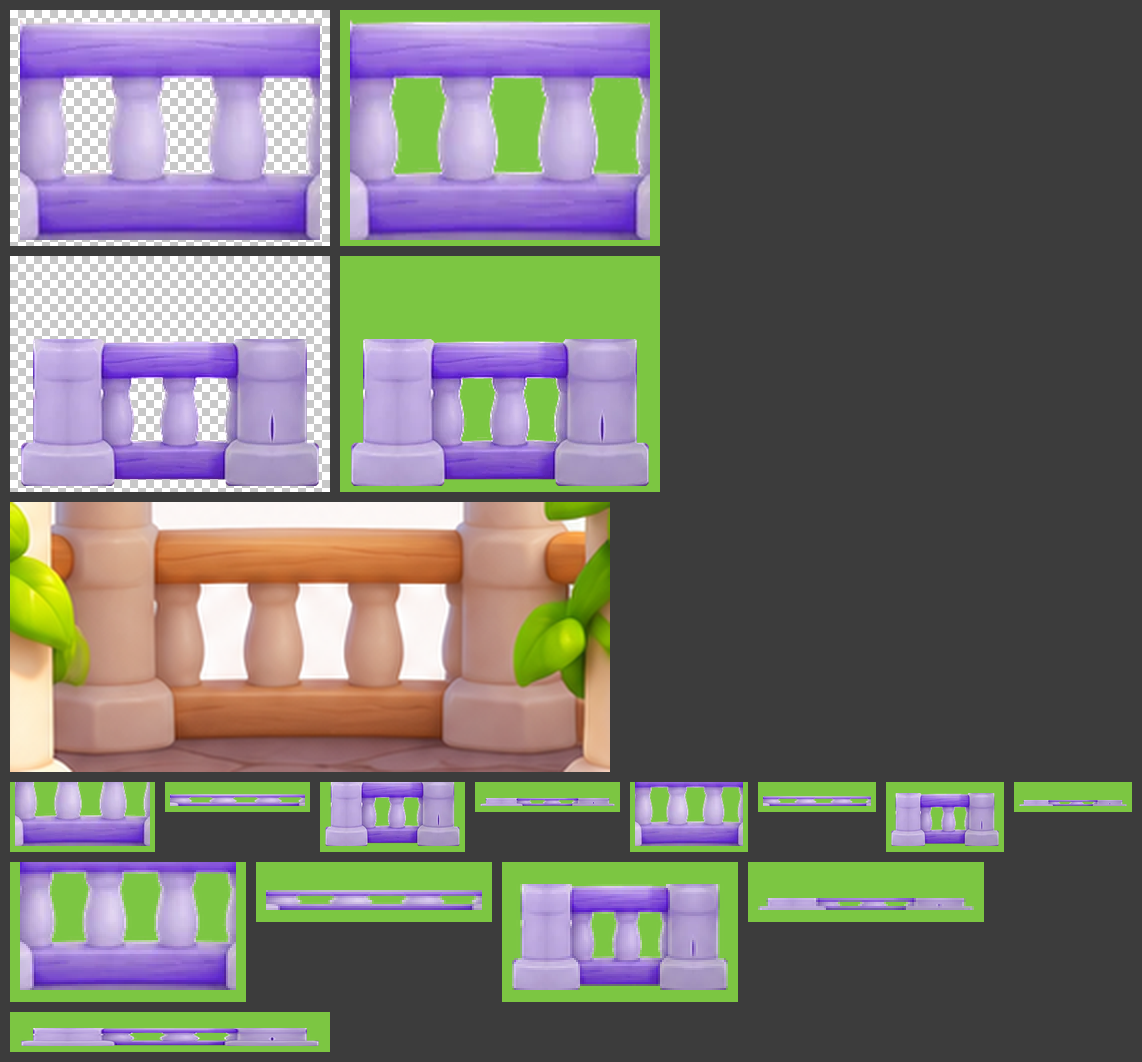
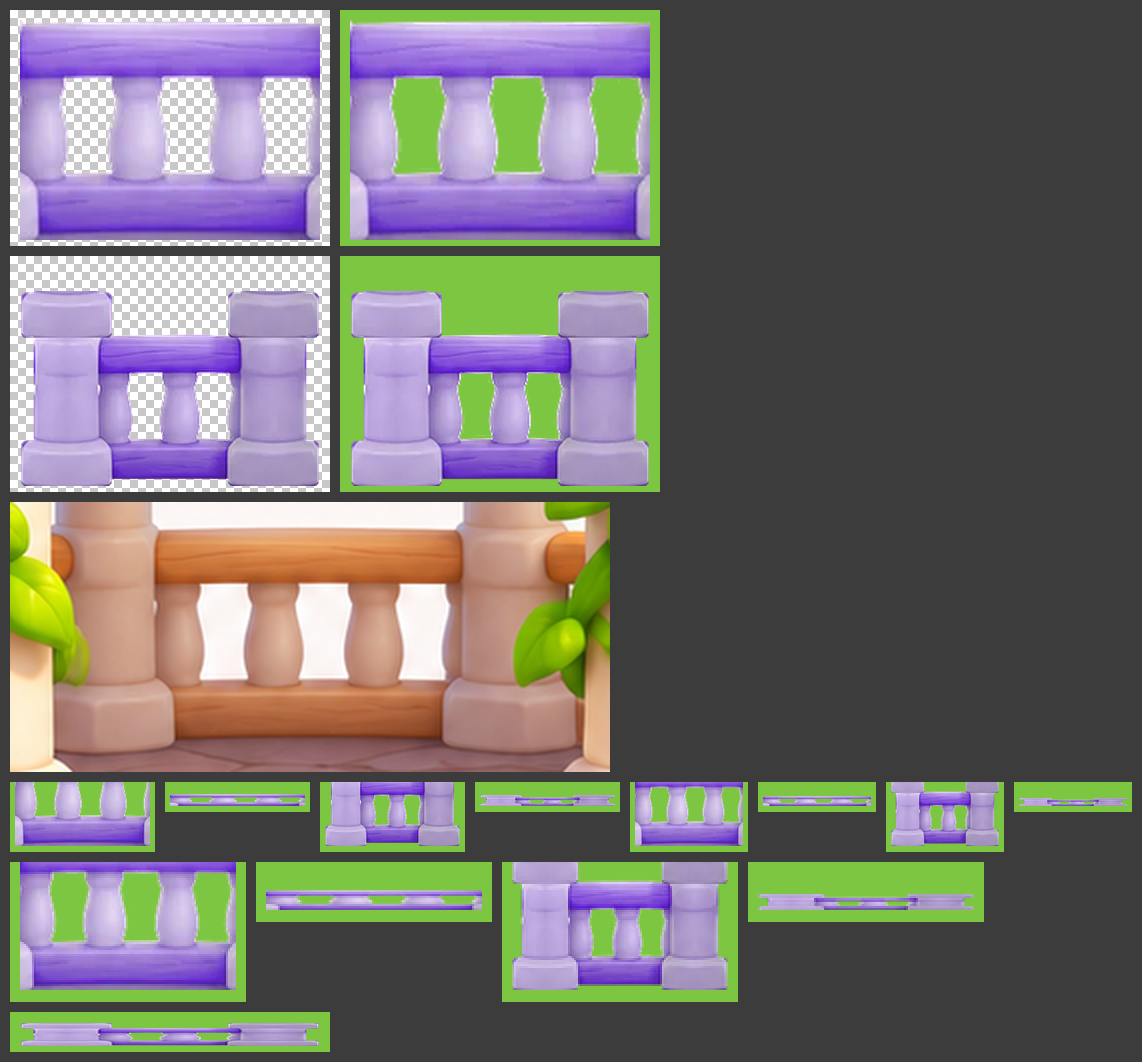
chore: checkpoint of the per-part hi-res work in progress
Design: design/themes/garden-exit.md

Claude-Session: https://claude.ai/code/session_01PBSmYqBfYXyG8SyW6SfNEM

diff --git a/tools/asset-pipeline/garden_exit/exit_pads.py b/tools/asset-pipeline/garden_exit/exit_pads.py
@@ -2,19 +2,46 @@
 
 `source_pad(look)` is the cut-out at the owner's size; `pad(look)` the enlarged one the game
 uses, with its anchor (the face centre) in pixels. Other parts derive from `source_pad('green')`.
+
+The owner's sheet is tiny (each pad ~100 px wide), so `pad` rebuilds what an enlargement cannot
+invent from the owner's picture itself, and nothing else:
+
+- the silhouette of the stone body is the convex hull of two ellipses (the rim top and the base
+  bottom) fitted to the pad's own outline, drawn antialiased at the output size, so it is a clean
+  curve instead of a blurred, bumpy edge;
+- the three rays are traced from the sheet (their saturated yellow), the traced outline smoothed
+  and drawn antialiased at the output size;
+- inside these shapes the colour is the owner's painting, enlarged with `enlarge.enlarge`
+  (Lanczos, then edges steepened between their local extremes: crisp tick, face edge and stone
+  joints, smooth shading, no ringing); colour is bled outward from the solid pixels, so no white
+  of the sheet can show as a halo;
+- the soft light glow around the rays stays soft (enlarged as it is); the faint drop shadow under
+  each pad on the sheet is left out, like the cut-outs before.
 """
 from __future__ import annotations
 
+import cv2
 import numpy as np
+from scipy import ndimage
 
-from lib import CELLS_PER_SOURCE_PX, UPSCALE, bottom, crop, cut_out, face_centre, load, upscale, write_part
+from enlarge import enlarge
+from lib import CELLS_PER_SOURCE_PX, bottom, crop, cut_out, face_centre, hue_sat_val, load, write_part
 
 # Each pad's box on the sheet (x0, y0, x1, y1); the small red mark under the third is left out.
 BOXES = {"grey": (5, 0, 108, 88), "green": (117, 0, 224, 88), "rays": (236, 0, 342, 86)}
+SHEET = "22-sheet-exit-pad-states"
+
+# Output size: FACTOR times the owner's sheet (~300 px wide pads).
+FACTOR = 3
+# Outlines are traced at TRACE times the sheet and smoothed along their length by SMOOTH sheet px.
+TRACE = 8
+SMOOTH = 0.9
+# Antialiasing: shapes are drawn at SUPER times the output size and averaged down.
+SUPER = 4
 
 
 def source_pad(look: str) -> np.ndarray:
-    return crop(cut_out(load("22-sheet-exit-pad-states")), BOXES[look])
+    return crop(cut_out(load(SHEET)), BOXES[look])
 
 
 def anchor(look: str, rgba: np.ndarray) -> tuple[float, float]:
@@ -26,15 +53,136 @@ def anchor(look: str, rgba: np.ndarray) -> tuple[float, float]:
     return ((xs.min() + xs.max()) / 2, bottom(rgba) - rise)
 
 
-def pad(look: str) -> tuple[np.ndarray, tuple[float, float]]:
-    src = source_pad(look)
-    ax, ay = anchor(look, src)
-    return upscale(src, UPSCALE), (ax * UPSCALE, ay * UPSCALE)
+def _window(look: str) -> tuple[np.ndarray, np.ndarray]:
+    """The cut-out and the raw sheet colour over exactly the area `source_pad` covers."""
+    rgb = load(SHEET)
+    cut = cut_out(rgb)
+    x0, y0, x1, y1 = BOXES[look]
+    cut, rgb = cut[y0:y1, x0:x1], rgb[y0:y1, x0:x1]
+    ys, xs = np.nonzero(cut[..., 3] > 3)
+    m = 2  # the margin lib.crop keeps
+    sy = slice(max(0, ys.min() - m), min(cut.shape[0], ys.max() + 1 + m))
+    sx = slice(max(0, xs.min() - m), min(cut.shape[1], xs.max() + 1 + m))
+    return cut[sy, sx], rgb[sy, sx]
+
+
+def _outlines(mask: np.ndarray, level: float = 0.5, min_area: float = 12) -> list[np.ndarray]:
+    """Sub-pixel outlines (sheet px, pixel edges at integers) of a 0..1 map at `level`, smoothed."""
+    h, w = mask.shape
+    big = cv2.resize(mask.astype(np.float32), (w * TRACE, h * TRACE), interpolation=cv2.INTER_CUBIC)
+    found, _ = cv2.findContours((big > level).astype(np.uint8), cv2.RETR_EXTERNAL, cv2.CHAIN_APPROX_NONE)
+    out = []
+    for c in found:
+        if cv2.contourArea(c) < min_area * TRACE * TRACE:
+            continue
+        p = ndimage.gaussian_filter1d(c[:, 0, :].astype(float), SMOOTH * TRACE, axis=0, mode="wrap")
+        out.append((p + 0.5) / TRACE)
+    return out
+
+
+def _ellipse(points: np.ndarray) -> tuple[float, float, float, float]:
+    """Axis-aligned ellipse (cx, cy, rx, ry) through `points` by least squares."""
+    x, y = points[:, 0], points[:, 1]
+    a, b, c, d = np.linalg.lstsq(np.c_[x * x, y * y, x, y], np.ones(len(x)), rcond=None)[0]
+    cx, cy = -c / (2 * a), -d / (2 * b)
+    r = 1 + a * cx * cx + b * cy * cy
+    return cx, cy, float(np.sqrt(r / a)), float(np.sqrt(r / b))
+
+
+def _ellipse_points(e: tuple[float, float, float, float], n: int = 720) -> np.ndarray:
+    cx, cy, rx, ry = e
+    t = np.linspace(0, 2 * np.pi, n, endpoint=False)
+    return np.c_[cx + rx * np.cos(t), cy + ry * np.sin(t)]
+
+
+def _body(look: str) -> tuple[np.ndarray, tuple[float, float, float, float]]:
+    """The stone body's outline (sheet px) as the hull of the rim-top and base-bottom ellipses,
+    each fitted to the pad's own traced outline; and the rim-top ellipse.
+
+    The rays pad's rim top is hidden under its glow, so it takes the green pad's rim-top ellipse,
+    scaled and moved with the base-bottom ellipse the rays pad shows itself."""
+    def fit(look: str):
+        cut, _ = _window(look)
+        outline = max(_outlines(cut[..., 3] / 255), key=len)
+        x, y = outline[:, 0], outline[:, 1]
+        y0, y1 = y.min(), y.max()
+        if look == "rays":
+            y0 = y1 - 45  # below the rays and their glow
+        h = y1 - y0
+        sel = y >= y0
+        top = _ellipse(outline[sel & (y < y0 + 0.45 * h)]) if look != "rays" else None
+        base = _ellipse(outline[sel & (y > y0 + 0.62 * h)])
+        return top, base
+
+    top, base = fit(look)
+    if top is None:
+        g_top, g_base = fit("green")
+        s = base[2] / g_base[2]
+        top = (base[0] + (g_top[0] - g_base[0]) * s, base[1] + (g_top[1] - g_base[1]) * s, g_top[2] * s, g_top[3] * s)
+    hull = cv2.convexHull(np.vstack([_ellipse_points(top), _ellipse_points(base)]).astype(np.float32))[:, 0, :]
+    return hull.astype(float), top
+
+
+def _rays(look: str, rim_top: tuple[float, float, float, float]) -> list[np.ndarray]:
+    """The rays' outlines (sheet px): the saturated yellow above the rim, traced."""
+    if look != "rays":
+        return []
+    cut, rgb = _window(look)
+    hue, sat, val = hue_sat_val(np.dstack([rgb, np.full(rgb.shape[:2], 255.0)]))
+    yellow = np.clip((sat - 0.35) / 0.3, 0, 1) * np.clip(1 - np.abs(hue - 48) / 22, 0, 1)
+    rows = np.arange(rgb.shape[0])[:, None]
+    yellow = yellow * (rows < rim_top[1] - rim_top[3] - 1)
+    return _outlines(yellow, 0.5, min_area=20)
+
+
+def _draw(polys: list[np.ndarray], size: tuple[int, int], factor: float) -> np.ndarray:
+    """Antialiased coverage 0..1 of the filled outlines at the output size."""
+    w, h = size
+    canvas = np.zeros((h * SUPER, w * SUPER), np.uint8)
+    for p in polys:
+        q = np.round(p * factor * SUPER * 16).astype(np.int32)
+        cv2.fillPoly(canvas, [q], 255, lineType=cv2.LINE_8, shift=4)
+    return cv2.resize(canvas.astype(np.float32), size, interpolation=cv2.INTER_AREA) / 255
+
+
+def pad(look: str, factor: float = FACTOR) -> tuple[np.ndarray, tuple[float, float]]:
+    cut, rgb = _window(look)
+    h, w = cut.shape[:2]
+    size = (round(w * factor), round(h * factor))
+    hull, rim_top = _body(look)
+    rays = _rays(look, rim_top)
+    solid_big = _draw([hull] + rays, size, factor)
+
+    # The owner's colour inside the shapes, bled outward from pixels well inside, enlarged.
+    solid = _draw([hull] + rays, (w, h), 1.0) > 0.5
+    core = ndimage.distance_transform_edt(solid) > 1.5
+    _, (iy, ix) = ndimage.distance_transform_edt(~core, return_indices=True)
+    colour = np.where(core[..., None], rgb, rgb[iy, ix])
+    big = enlarge(np.dstack([colour, np.full((h, w), 255.0)]), factor)
+    rgba = np.dstack([big[..., :3], solid_big * 255])
+
+    if look == "rays":
+        # The soft glow around the rays: the cut-out itself, enlarged smoothly, under the shapes,
+        # above the rim only (no drop shadow).
+        a = cut[..., 3:4] / 255
+        pre = np.dstack([cut[..., :3] * a, cut[..., 3:4]]).astype(np.float32)
+        g = cv2.resize(pre, size, interpolation=cv2.INTER_CUBIC)
+        rows = (np.arange(size[1])[:, None] + 0.5) / factor
+        g = g * np.clip(rim_top[1] - rows, 0, 1)[..., None]
+        ga = np.clip(g[..., 3], 0, 255) / 255
+        grgb = np.clip(g[..., :3] / np.maximum(ga[..., None] * 255, 1e-3) * 255, 0, 255)
+        sa = solid_big[..., None]
+        out_a = sa + ga[..., None] * (1 - sa)
+        out_rgb = (big[..., :3] * sa + grgb * ga[..., None] * (1 - sa)) / np.maximum(out_a, 1e-4)
+        rgba = np.dstack([np.clip(out_rgb, 0, 255), out_a[..., 0] * 255])
+
+    ax, ay = anchor(look, cut)
+    return rgba, ((ax + 0.5) * factor - 0.5, (ay + 0.5) * factor - 0.5)
 
 
 def run() -> None:
     sprites = {}
     for look in ("grey", "green", "rays"):
         rgba, at = pad(look)
-        sprites[f"exit-{look}"] = (rgba, at, CELLS_PER_SOURCE_PX / UPSCALE)
+        sprites[f"exit-{look}"] = (rgba, at, CELLS_PER_SOURCE_PX / FACTOR)
     write_part("exit_pads", sprites)

diff --git a/tools/asset-pipeline/garden_exit/gate.py b/tools/asset-pipeline/garden_exit/gate.py
@@ -25,8 +25,11 @@ TOP, BOTTOM = 801, 913          # rows taken: top of the columns' bands .. just 
 PLINTH_TOP = 879.5              # band above, plinth below
 PLINTH_FOOT = 912.6             # bottom of the plinths
 RAIL_FOOT = 907.3               # bottom of the lower rail (floor below)
-CENTRES = (526, 732)            # column centre lines (left, right)
-BAND_HALF, PLINTH_HALF = 26.5, 35.5
+# Mirror axes (half-pixel): left post uses the pixels right of 528.5, right post those left of
+# 729.5; nearer the columns' centres the vine leaves cast a dark line on the right column.
+AXES = (528.5, 729.5)
+BAND_HALF, PLINTH_HALF = 24.0, 33.0     # inner band edge 552.5 / 705.5, plinth edge 561.5 / 696.5
+CAP_OVERLAP = 4                 # the cap (a copy of the plinth) covers the cut top of the band
 CORNER = 3.5                    # rounding of the plinth's corners and the band's top corners
 CUT = (636, 686)                # removed: mid-gap .. mid-gap, the second full baluster
 BLEND = 4                       # cross-fade of the rails across the cut (px)
@@ -55,11 +58,11 @@ def _post_mask(h: int, w: int, centre: float, ss: int = 4) -> np.ndarray:
 def _strip() -> tuple[np.ndarray, float, float]:
     """RGB strip post-rail-post (one baluster removed) and the two post centres in strip x."""
     whole = load("08-gazebo")[TOP:BOTTOM]
-    left, right = CENTRES
-    lh, rh = int(np.ceil(PLINTH_HALF)) + 1, int(np.ceil(PLINTH_HALF)) + 1
-    # Each post: its clean inner half, mirrored outward about the centre line.
-    outer_l = whole[:, left + 1:left + lh][:, ::-1]
-    outer_r = whole[:, right - rh + 1:right][:, ::-1]
+    left, right = int(AXES[0] + 0.5), int(AXES[1] - 0.5)   # first / last pixel kept as painted
+    n = int(np.ceil(PLINTH_HALF)) + 1
+    # Each post: its clean inner half, mirrored outward about the axis.
+    outer_l = whole[:, left:left + n][:, ::-1]
+    outer_r = whole[:, right - n + 1:right + 1][:, ::-1]
     a, b = CUT
     first = whole[:, left:a + BLEND]
     second = whole[:, b - BLEND:right + 1]
@@ -67,9 +70,27 @@ def _strip() -> tuple[np.ndarray, float, float]:
     t = np.linspace(0, 1, 2 * BLEND)[None, :, None]
     joint = first[:, -2 * BLEND:] * (1 - t) + second[:, :2 * BLEND] * t
     rgb = np.concatenate([outer_l, first[:, :-2 * BLEND], joint, second[:, 2 * BLEND:], outer_r], axis=1)
-    cl = float(outer_l.shape[1])
-    cr = float(rgb.shape[1] - outer_r.shape[1] - 1)
+    cl = outer_l.shape[1] - 0.5
+    cr = rgb.shape[1] - outer_r.shape[1] - 0.5
     return rgb, cl, cr
+
+
+def _capped(rgba: np.ndarray, posts: np.ndarray) -> np.ndarray:
+    """Put a copy of each post's plinth on top of it as a cap: the band's top is a cut through the
+    column, the cap closes it so each post reads as a gate pillar."""
+    p0, p1 = int(PLINTH_TOP - TOP), int(np.ceil(PLINTH_FOOT - TOP)) + 1
+    cap = rgba[p0:p1].copy()
+    cap[..., 3] = np.minimum(cap[..., 3], posts[p0:p1] * 255)
+    ch = cap.shape[0]
+    out = np.zeros((rgba.shape[0] + ch - CAP_OVERLAP, rgba.shape[1], 4))
+    out[ch - CAP_OVERLAP:] = rgba
+    # "over" compositing, straight alpha.
+    top = out[:ch]
+    a1, a0 = cap[..., 3:4] / 255, top[..., 3:4] / 255
+    a = a1 + a0 * (1 - a1)
+    rgb = (cap[..., :3] * a1 + top[..., :3] * a0 * (1 - a1)) / np.maximum(a, 1e-6)
+    out[:ch] = np.dstack([rgb, a * 255])
+    return out
 
 
 def run() -> None:
@@ -83,11 +104,13 @@ def run() -> None:
     rail = np.clip(RAIL_FOOT - rows + 0.5, 0, 1) * ((np.arange(w)[None, :] > cl) & (np.arange(w)[None, :] < cr))
     shape = np.maximum(posts, rail)
     rgba[..., 3] = np.minimum(rgba[..., 3], shape * 255)
+    rgba = _capped(rgba, posts)
+    h = rgba.shape[0]
     rgba = retone(rgba, np.clip(rgba[..., 3] / 255, 0, 1) * 0.95, LAVENDER, keep_light=1.0)
     # Enlarge to the target width (crisp edges: premultiplied Lanczos + mild unsharp).
     factor = OUT_WIDTH / w
     big = upscale(rgba, factor, sharpen=0.6, radius=1.6)
     big[..., 3] = np.where(big[..., 3] < 4, 0, big[..., 3])
     bh, bw = big.shape[:2]
-    foot = (PLINTH_FOOT - TOP + 0.5) * factor
+    foot = (h - (BOTTOM - PLINTH_FOOT) + 0.5) * factor
     write_part("gate", {"gate": (big, (bw / 2, foot), WIDTH_CELLS / bw)})
